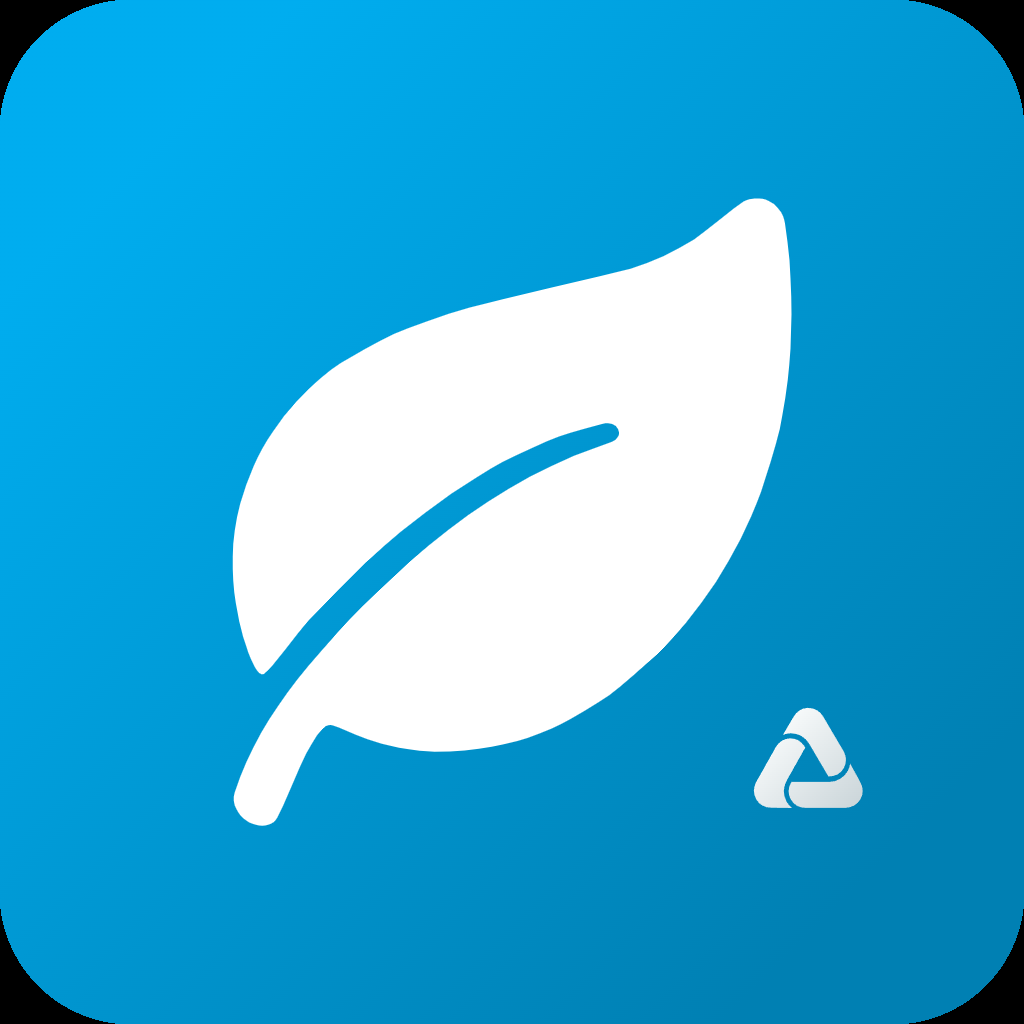
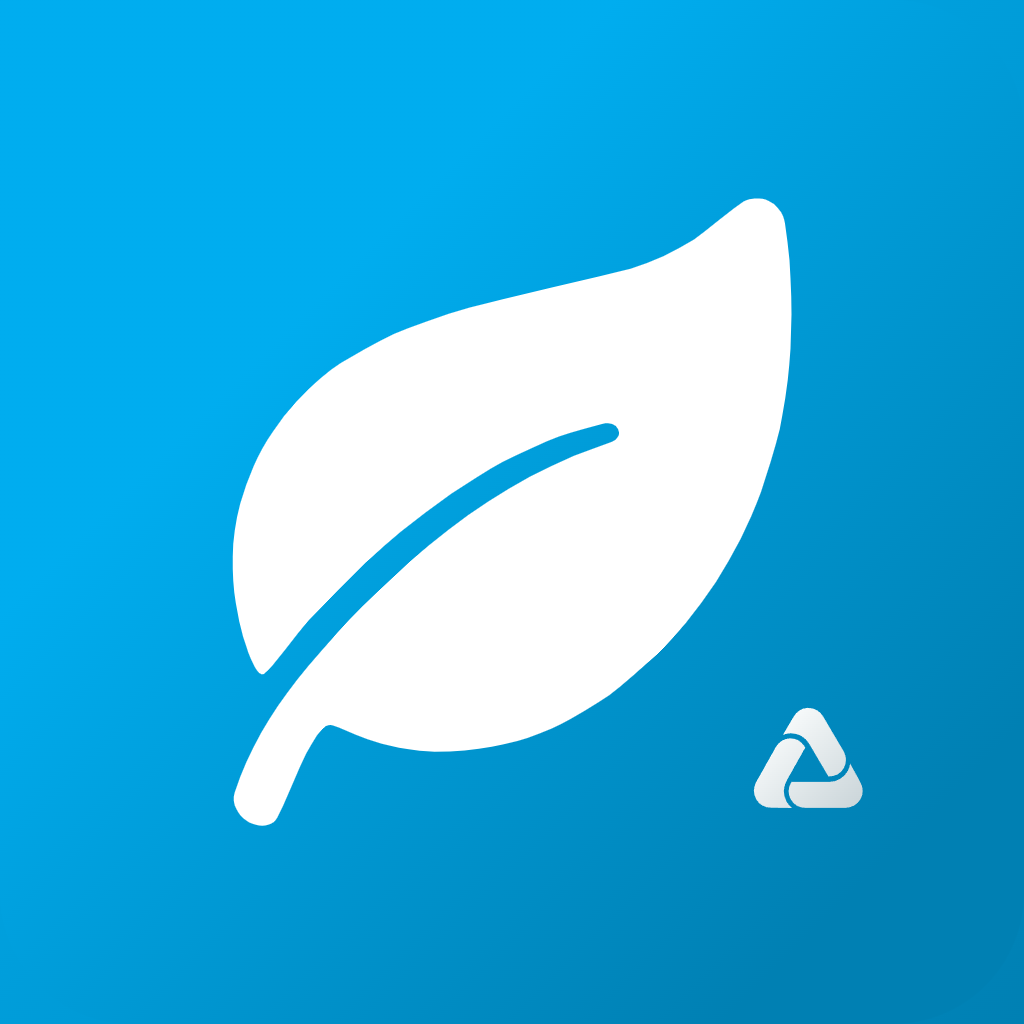
Ajuste Ícone APP

diff --git a/src/screens/LoginScreen.tsx b/src/screens/LoginScreen.tsx
@@ -2,11 +2,9 @@ import React, { useEffect, useRef, useState } from 'react';
 import { ActivityIndicator, Alert, ImageBackground, KeyboardAvoidingView, Modal, Platform, Pressable, ScrollView, StyleSheet, Text, TextInput, View } from 'react-native';
 import { LinearGradient } from 'expo-linear-gradient';
 import { Ionicons } from '@expo/vector-icons';
-import * as Application from 'expo-application';
 import { useSafeAreaInsets } from 'react-native-safe-area-context';
 import type { NativeStackScreenProps } from '@react-navigation/native-stack';
-import { expo } from '../../app.json';
-import { AMBIENTES, nomeDoAmbiente, useAmbiente, type Ambiente } from '../services/ambiente';
+import { AMBIENTES, useAmbiente, type Ambiente } from '../services/ambiente';
 import { LoginError, useSessao } from '../services/sessao';
 import { colors, gradients, radius, shadow, space, type } from '../theme';
 import { CampoSenha } from '../ui/CampoSenha';
@@ -26,7 +24,6 @@ export default function LoginScreen({ navigation }: Props) {
   const { login, loginDigital, digitalAtiva, digitalNoAparelho, aviso } = useSessao();
   const t = useTipografia();
   const insets = useSafeAreaInsets();
-  const ambiente = useAmbiente();
   const senhaRef = useRef<TextInput>(null);
   const [identificador, setIdentificador] = useState('');
   const [senha, setSenha] = useState('');
@@ -63,7 +60,6 @@ export default function LoginScreen({ navigation }: Props) {
     finally { setOcupado(''); }
   }
 
-  const versao = Application.nativeApplicationVersion ?? expo.version;
   return (
     <View style={s.tela}>
       <KeyboardAvoidingView style={s.flex} behavior={Platform.OS === 'ios' ? 'padding' : 'height'}>
@@ -72,7 +68,7 @@ export default function LoginScreen({ navigation }: Props) {
             <LinearGradient colors={[...gradients.veuLogin]} style={StyleSheet.absoluteFill} />
             <Entrada><Marca /></Entrada>
             <View style={s.meio}>
-              <Entrada ordem={1}><Text style={[s.titulo, t.titulo]} accessibilityRole="header">Cuidar da água{'\n'}começa aqui.</Text></Entrada>
+              <Entrada ordem={1}><Text style={[s.titulo, t.titulo]} accessibilityRole="header">O futuro que queremos{'\n'}<Text style={s.destaque}>começa hoje.</Text></Text></Entrada>
               <Entrada ordem={2}><Text style={[s.subtitulo, t.corpo]}>Entre com sua matrícula, login ou e-mail.</Text></Entrada>
               <Entrada ordem={3} style={s.campos}>
                 <View style={[s.campo, tentou && !identificador.trim() && s.campoErro]}>
@@ -108,14 +104,9 @@ export default function LoginScreen({ navigation }: Props) {
           </View>
 
           <View style={[s.rodape, { paddingBottom: insets.bottom + space.md }]}>
-            <Text style={s.lema}>Cuidar do amanhã começa hoje.</Text>
-            <View style={s.ajustes}>
-              {ambiente !== 'PRD' ? <Text style={s.ambiente}>{nomeDoAmbiente(ambiente)}</Text> : null}
-              <Text style={s.versao}>v{versao}</Text>
-              <Pressable accessibilityRole="button" accessibilityLabel="Servidor e atualizações do aplicativo" onPress={() => setAjustes(true)} style={({ pressed }) => [s.engrenagem, pressed && { backgroundColor: colors.surfacePressed }]}>
-                <Ionicons name="settings-outline" size={22} color={colors.textMuted} accessible={false} />
-              </Pressable>
-            </View>
+            <Pressable accessibilityRole="button" accessibilityLabel="Servidor e atualizações do aplicativo" onPress={() => setAjustes(true)} style={({ pressed }) => [s.engrenagem, pressed && { backgroundColor: colors.surfacePressed }]}>
+              <Ionicons name="settings-outline" size={22} color={colors.textMuted} accessible={false} />
+            </Pressable>
           </View>
         </ScrollView>
       </KeyboardAvoidingView>
@@ -166,6 +157,7 @@ const s = StyleSheet.create({
   // A borda de baixo é a onda (não um canto arredondado); `visible` deixa o botão de entrar atravessá-la.
   painel: { minHeight: 600, paddingHorizontal: 26, paddingBottom: 86, overflow: 'visible' },
   meio: { flex: 1, justifyContent: 'center', paddingVertical: space.xl },
+  destaque: { color: colors.destaque },
   titulo: { fontSize: 33, lineHeight: 43, fontWeight: '700', color: colors.white, includeFontPadding: true },
   subtitulo: { fontSize: 16, lineHeight: 23, color: colors.onDarkMuted, marginTop: 12 },
   campos: { marginTop: 28, gap: 12 },
@@ -181,11 +173,7 @@ const s = StyleSheet.create({
   entrarRotulo: { fontSize: 14, color: colors.textMuted },
   digital: { flexDirection: 'row', alignItems: 'center', gap: 10, height: 52, paddingHorizontal: 22, borderRadius: radius.pill, backgroundColor: colors.primarySoft },
   digitalTexto: { fontSize: 15.5, fontWeight: '600', color: colors.primary },
-  rodape: { marginTop: 'auto', flexDirection: 'row', alignItems: 'center', justifyContent: 'space-between', paddingHorizontal: 22, paddingTop: space.lg },
-  lema: { flexShrink: 1, fontSize: 12.5, color: colors.greenInk, fontWeight: '600' },
-  ajustes: { flexDirection: 'row', alignItems: 'center', gap: 8 },
-  ambiente: { fontSize: 11, fontWeight: '700', color: colors.white, backgroundColor: colors.warning, paddingHorizontal: 7, paddingVertical: 1, borderRadius: 7, overflow: 'hidden' },
-  versao: { fontSize: 12, color: colors.textMuted },
+  rodape: { marginTop: 'auto', alignItems: 'center', paddingHorizontal: 22, paddingTop: space.lg },
   engrenagem: { width: 48, height: 48, borderRadius: 24, backgroundColor: colors.surface, alignItems: 'center', justifyContent: 'center' },
   veu: { flex: 1, backgroundColor: colors.veil, justifyContent: 'flex-end' },
   folha: { backgroundColor: colors.white, borderTopLeftRadius: radius.hero, borderTopRightRadius: radius.hero, padding: 24, paddingBottom: 36, gap: 12, ...shadow.float },

diff --git a/src/ui/Marca.tsx b/src/ui/Marca.tsx
@@ -9,7 +9,7 @@ export function Marca({ tamanho = 26 }: { tamanho?: number }) {
   return (
     <View style={s.linha} accessible accessibilityLabel="uisa esg">
       <Image source={require('../../assets/brand/uisa-logo-branca.png')} style={{ width: tamanho * 3.7, height: tamanho * 0.78 }} resizeMode="contain" />
-      <Text style={[s.esg, t.titulo, { fontSize: tamanho, lineHeight: tamanho * 1.3 }]}>
+      <Text style={[s.esg, t.titulo, { fontSize: tamanho, lineHeight: tamanho * 1.5, paddingBottom: tamanho * 0.2, paddingRight: tamanho * 0.08 }]}>
         <Text style={{ color: colors.green }}>e</Text>
         <Text style={{ color: colors.cyan }}>s</Text>
         <Text style={{ color: colors.accent }}>g</Text>
@@ -20,5 +20,6 @@ export function Marca({ tamanho = 26 }: { tamanho?: number }) {
 
 const s = StyleSheet.create({
   linha: { flexDirection: 'row', alignItems: 'center', gap: 8 },
-  esg: { fontWeight: '700', includeFontPadding: true, marginBottom: 2 },
+  // Folga embaixo e à direita: sem ela o Android corta a perna do g.
+  esg: { fontWeight: '700', includeFontPadding: true },
 });

diff --git a/src/ui/index.tsx b/src/ui/index.tsx
@@ -310,8 +310,8 @@ const s = StyleSheet.create({
   redondo: { width: size.back, height: size.back, borderRadius: size.back / 2, alignItems: 'center', justifyContent: 'center' },
   redondoVidro: { borderWidth: 1, borderColor: colors.glassBorder },
 
-  painelFoto: { borderBottomLeftRadius: radius.panel, borderBottomRightRadius: radius.panel, overflow: 'hidden', justifyContent: 'flex-end' },
-  painelImagem: { borderBottomLeftRadius: radius.panel, borderBottomRightRadius: radius.panel },
+  painelFoto: { overflow: 'hidden', justifyContent: 'flex-end' },
+  painelImagem: {},
   painelConteudo: { flex: 1, paddingHorizontal: 22, paddingBottom: 48, justifyContent: 'space-between' },
 
   botao: { minHeight: size.cta, borderRadius: radius.pill, alignItems: 'center', justifyContent: 'center', paddingHorizontal: 24 },

diff --git a/src/theme.ts b/src/theme.ts
@@ -31,6 +31,7 @@ export const colors = {
   green: VERDE,
   greenDeep: VERDE_UISA,
   greenSoft: '#EDF7E9',
+  destaque: '#9BF97B', // "começa hoje." do login, o mesmo verde-claro do portal
   greenInk: '#3F8A2B',
 
   accent: '#F58220',

diff --git a/docs/01_DESIGN.md b/docs/01_DESIGN.md
@@ -16,7 +16,7 @@ As cores são as oficiais do portal (`palette.css`):
 
 ## Formas e movimento
 
-- **Cantos arredondados em tudo:** cartões com raio 28, painéis 44 e campos e botões em pílula.
+- **Cantos arredondados em tudo:** cartões com raio 28, campos e botões em pílula. A foto do topo tem cantos retos: quem arredonda a borda de baixo é a onda (com canto curvo, a onda deixava a ponta da foto aparecendo).
 - **Onda (`src/ui/Onda.tsx`):** a borda de baixo dos painéis de foto é uma onda dupla que desliza devagar. Ela é a
   marca visual do app.
 - **Entrada (`Entrada`):** cada bloco entra subindo e aparecendo; as listas chegam em cascata.
@@ -38,15 +38,15 @@ reduzidas para 1280 px em `assets/imagens/`:
 | `objetivos-metas.jpg` | PIPAS | Canavial |
 | `araras.jpg` | Perfil | Araras (a foto do login do portal) |
 
-O ícone do app sai do `icon_app_esg.svg` oficial (folha branca no degradê ciano → azul), renderizado em
+O ícone do app sai do `uisa_esg_icon_app.svg` oficial (folha branca com o símbolo da uisa no degradê ciano → azul), renderizado em
 `assets/icon.png` e nos dois PNGs do ícone adaptativo do Android. A logo branca da uisa está em
 `assets/brand/uisa-logo-branca.png`.
 
 ## Telas
 
-- **Login:** foto do rio com véu azul, a marca "uisa **e**s**g**", campos de vidro e o botão de entrar num círculo
-  laranja que atravessa a onda. Embaixo ficam "Usar a digital" (quando ativada) e a engrenagem (servidor e
-  atualizações).
+- **Login:** foto do rio com véu azul, a marca "uisa **e**s**g**", a mesma frase do portal ("O futuro que queremos / **começa hoje.**", o destaque no verde-claro do portal), campos de vidro e o botão de entrar num círculo
+  laranja que atravessa a onda. Embaixo ficam "Usar a digital" (quando ativada) e só a engrenagem, centralizada (servidor e
+  atualizações; a versão e o servidor em uso aparecem lá dentro, não no rodapé).
 - **Início e Perfil:** abas em pílula flutuante, só nessas duas telas. Dentro de um fluxo, a tela é inteira da tarefa.
 - **Telas internas:** voltar redondo de 48 à esquerda, título e descrição, como o `CabecalhoTela` do Safety. Rodapé
   arredondado com a ação principal.
